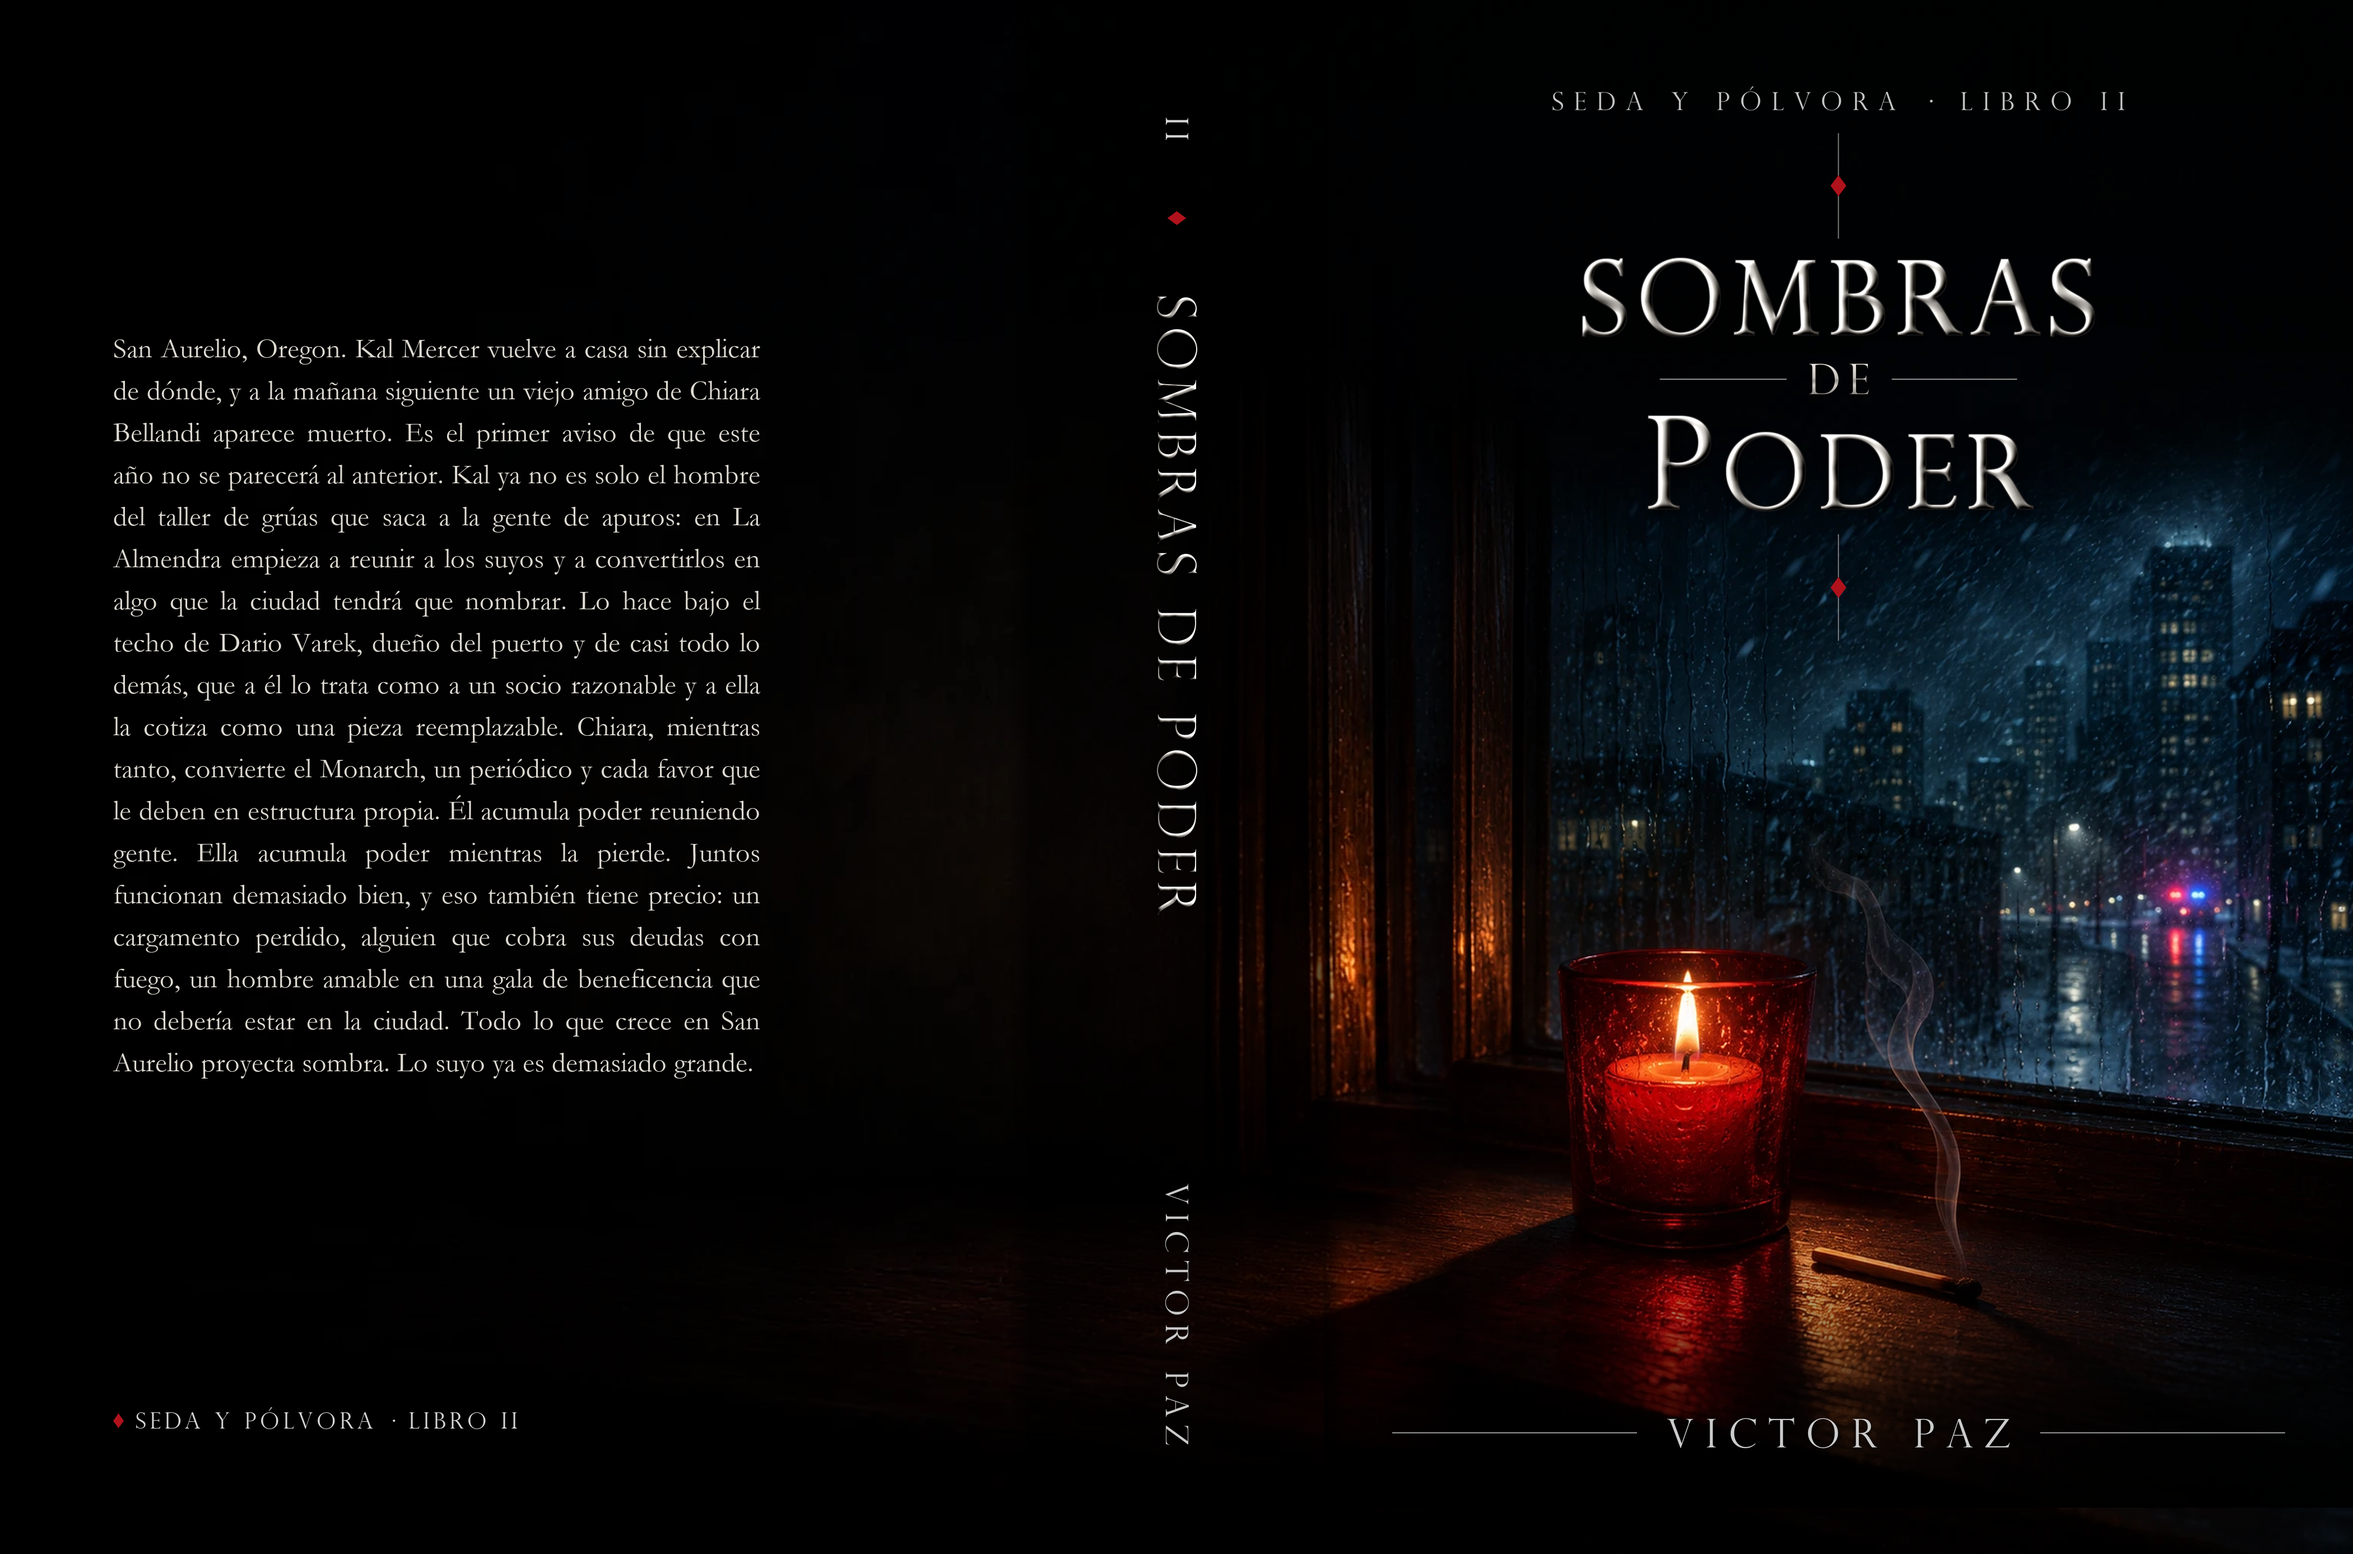
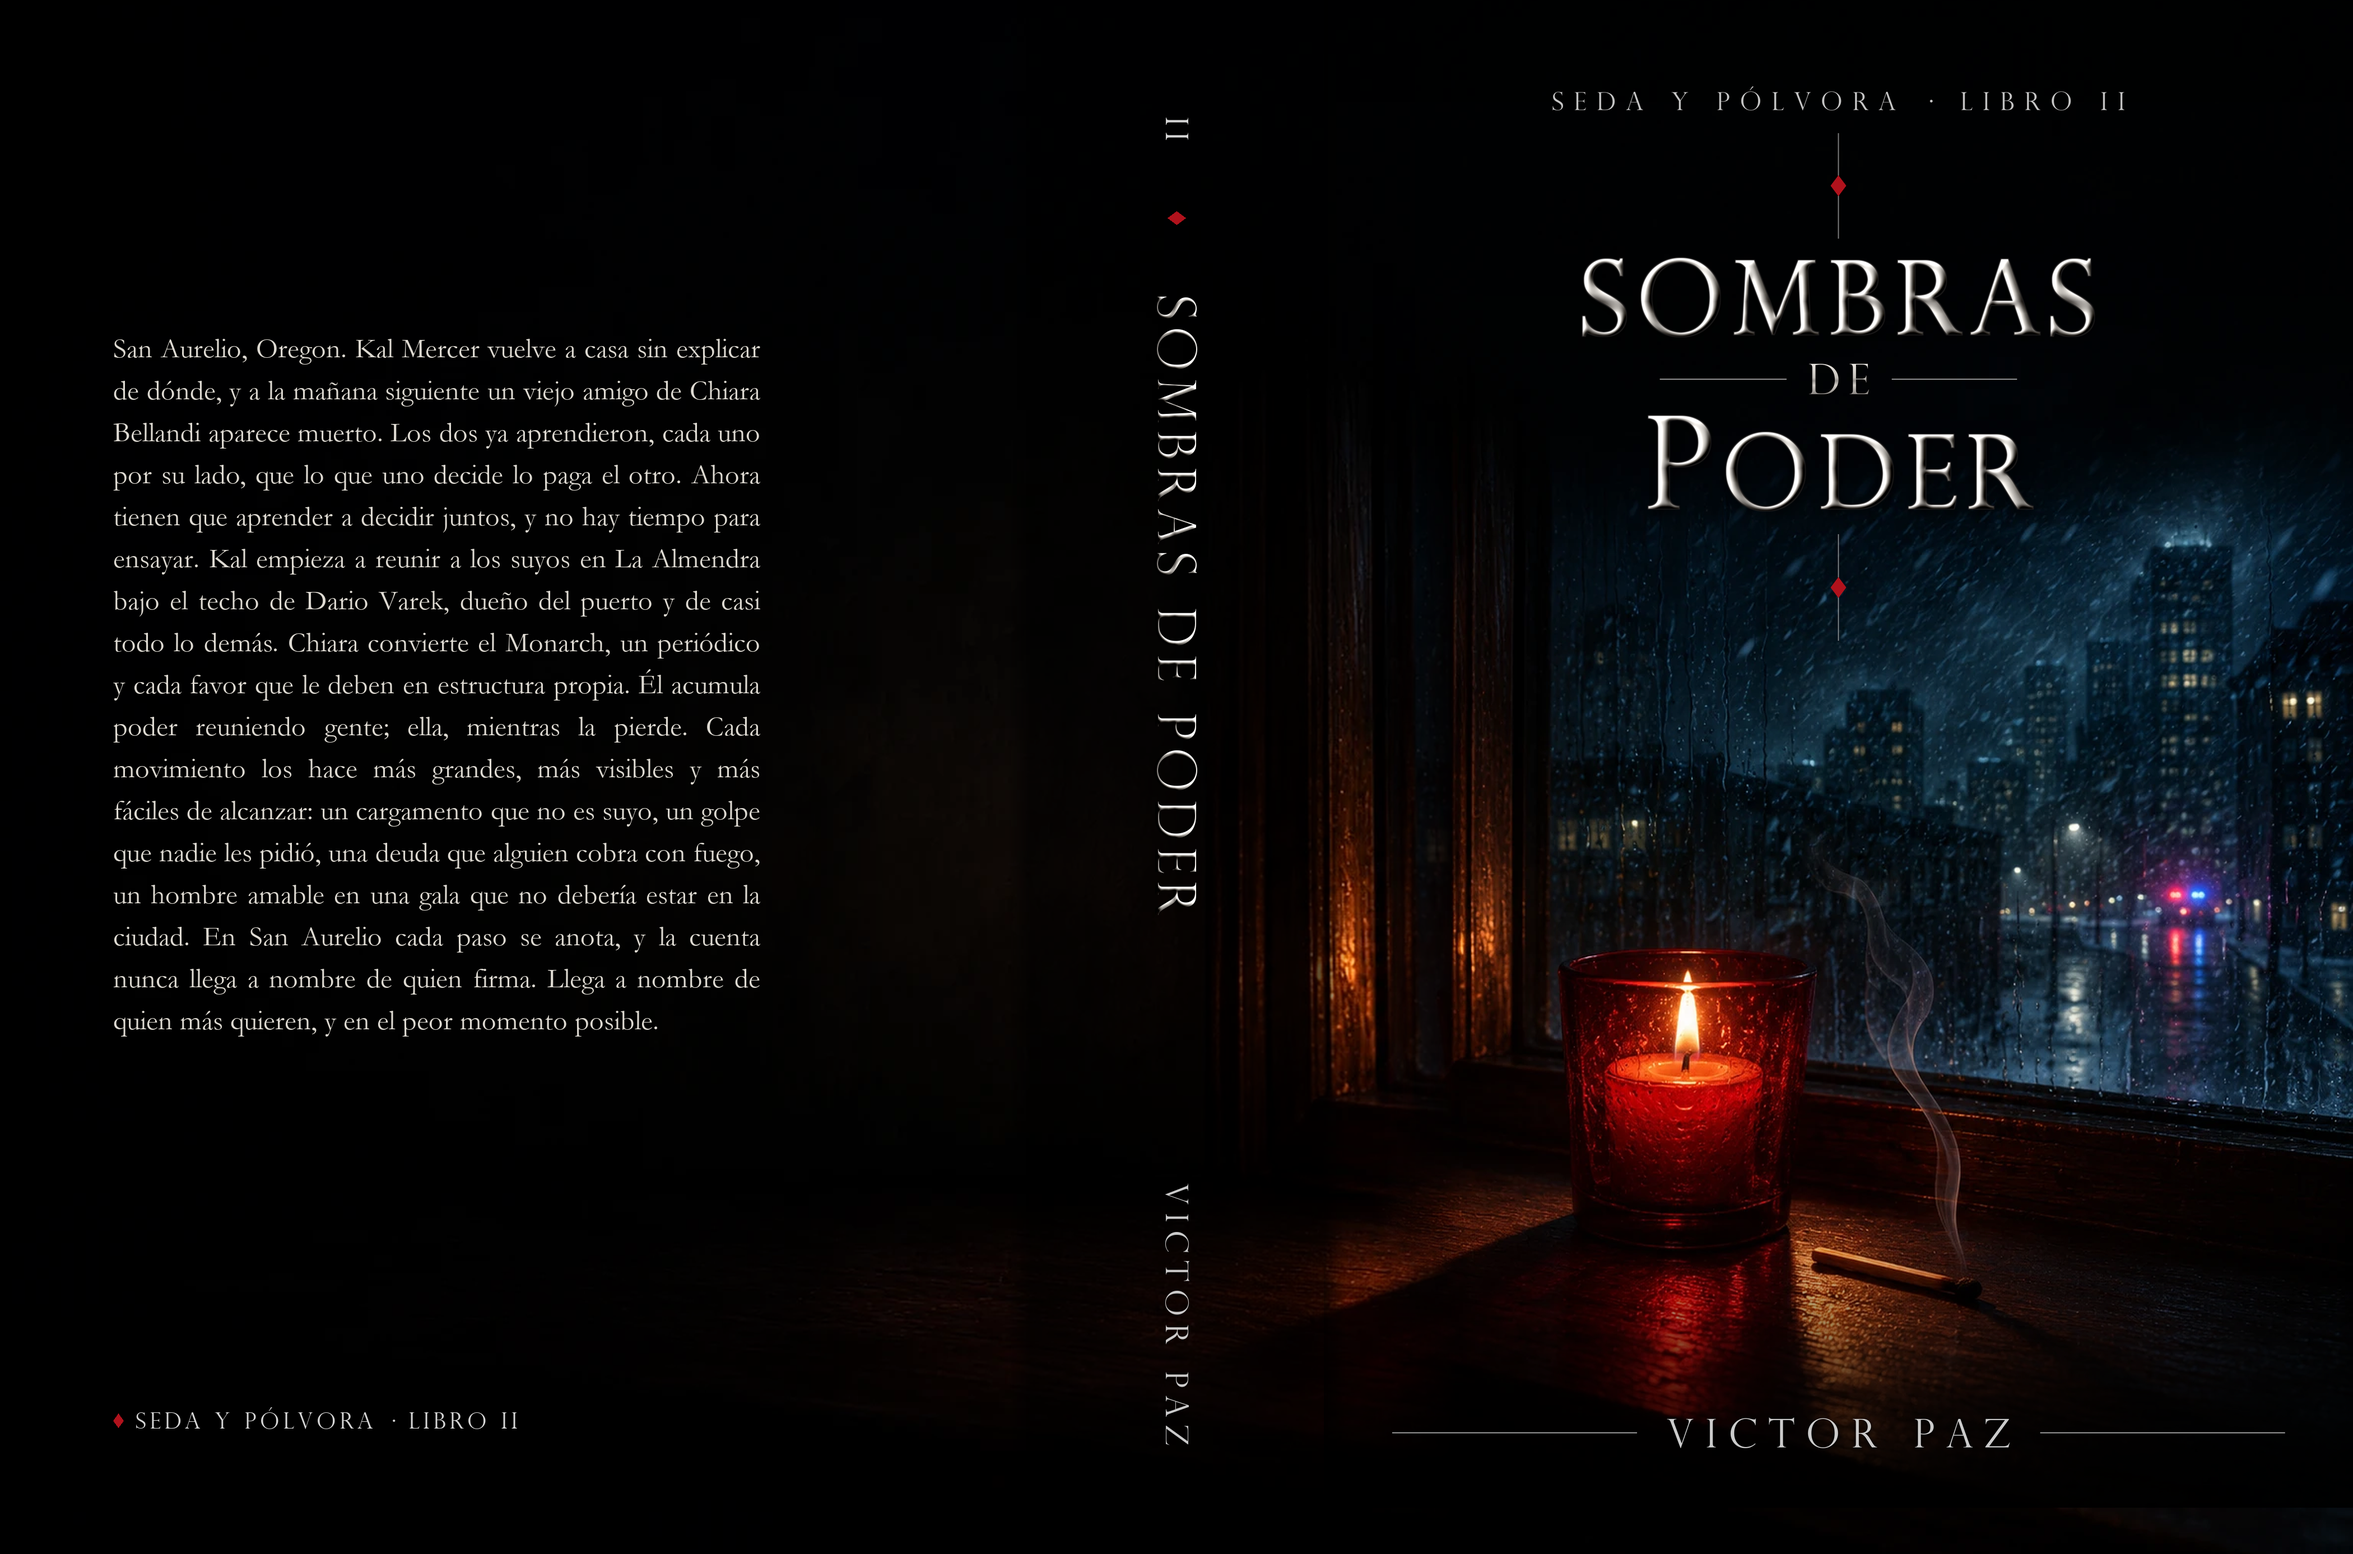
Libro II: sinopsis de contraportada v2 en clave de factura (decidir juntos; la cuenta llega a nombre de quien más quieren); tapa provisional recompuesta

Changed region(s): [[0.0624, 0.2789, 0.3119, 0.6818]]

diff --git a/11_Books/Book_02_Sombras_De_Poder/00_Sinopsis_Contraportada.md b/11_Books/Book_02_Sombras_De_Poder/00_Sinopsis_Contraportada.md
@@ -1,22 +1,21 @@
 # Sinopsis de contraportada — *Sombras de Poder*
 
-**Estado:** DISEÑO (borrador del 2026-11-22, pendiente de aprobación del autor). Provisional mientras el libro está en redacción: se revisa cuando la Parte II esté escrita. Hermana de [[11_Books/Book_01_Mascaras_De_Cristal/00_Sinopsis_Contraportada]].
+**Estado:** DISEÑO (borrador v2 del 2026-11-22, pendiente de aprobación del autor). Provisional mientras el libro está en redacción: se revisa cuando la Parte II esté escrita. Hermana de [[11_Books/Book_01_Mascaras_De_Cristal/00_Sinopsis_Contraportada]].
 
-**Reglas (las del Libro I):** 150–200 palabras, presente, registro neutro, un solo párrafo; no pasa de la mitad del libro (nada del choque, Meiko, Bonnie, el embarazo, Stavanger ni H1); sin nombres que el lector no necesita; no revela cómo termina el Libro I más allá de que Kal vuelve.
+**Reglas (las del Libro I):** 150–200 palabras, presente, registro neutro, un solo párrafo; no pasa de la mitad del libro (nada del choque, Bonnie, el embarazo ni Stavanger); sin nombres que el lector no necesita; no revela cómo termina el Libro I más allá de que Kal vuelve. **Encargo del autor (2026-11-22):** subir la expectativa de movimientos con costo y peligro; individualmente ya aprendieron que lo que hacen lo paga el otro, y aquí aprenden a decidir juntos. La sinopsis gira alrededor de la factura (Meiko, Elenna, H1) sin adelantar ninguno.
 
 ---
 
-San Aurelio, Oregon. Kal Mercer vuelve a casa sin explicar de dónde, y a la mañana siguiente un viejo amigo de Chiara Bellandi aparece muerto. Es el primer aviso de que este año no se parecerá al anterior. Kal ya no es solo el hombre del taller de grúas que saca a la gente de apuros: en La Almendra empieza a reunir a los suyos y a convertirlos en algo que la ciudad tendrá que nombrar. Lo hace bajo el techo de Dario Varek, dueño del puerto y de casi todo lo demás, que a él lo trata como a un socio razonable y a ella la cotiza como una pieza reemplazable. Chiara, mientras tanto, convierte el Monarch, un periódico y cada favor que le deben en estructura propia. Él acumula poder reuniendo gente. Ella acumula poder mientras la pierde. Juntos funcionan demasiado bien, y eso también tiene precio: un cargamento perdido, alguien que cobra sus deudas con fuego, un hombre amable en una gala de beneficencia que no debería estar en la ciudad. Todo lo que crece en San Aurelio proyecta sombra. Lo suyo ya es demasiado grande.
+San Aurelio, Oregon. Kal Mercer vuelve a casa sin explicar de dónde, y a la mañana siguiente un viejo amigo de Chiara Bellandi aparece muerto. Los dos ya aprendieron, cada uno por su lado, que lo que uno decide lo paga el otro. Ahora tienen que aprender a decidir juntos, y no hay tiempo para ensayar. Kal empieza a reunir a los suyos en La Almendra bajo el techo de Dario Varek, dueño del puerto y de casi todo lo demás. Chiara convierte el Monarch, un periódico y cada favor que le deben en estructura propia. Él acumula poder reuniendo gente; ella, mientras la pierde. Cada movimiento los hace más grandes, más visibles y más fáciles de alcanzar: un cargamento que no es suyo, un golpe que nadie les pidió, una deuda que alguien cobra con fuego, un hombre amable en una gala que no debería estar en la ciudad. En San Aurelio cada paso se anota, y la cuenta nunca llega a nombre de quien firma. Llega a nombre de quien más quieren, y en el peor momento posible.
 
 ---
 
 ## Notas del borrador
 
-- Remate: hace eco del título como el del Libro I hace eco de «tasar / pagar». Alternativa si se prefiere el eje del libro: «Construir un lugar donde otros pertenezcan es lo fácil. Lo difícil es no perder a nadie adentro.»
-- «Él acumula poder reuniendo gente. Ella acumula poder mientras la pierde.» viene de la brújula de [[11_Books/Book_02_Sombras_De_Poder/00_Plan_Cuatro_Partes]].
-- «Alguien que cobra sus deudas con fuego» es Crowe y el incendio del loft (Parte I), sin nombrarlo; el Libro I ya lo dejó como «alguien que pone precio».
-- «Un hombre amable en una gala» es Halbrook en la Galería Saints (cierre de la Parte I), sin nombrarlo.
-- «Un periódico» es *El Faro*; «el Monarch», el avance de Chiara hacia la mayoría.
-- «Vuelve sin explicar de dónde» toca el final del Libro I sin nombrar Camp Alder.
-- Lo que no entra a propósito: Fabrizio por su nombre, Lucía, Tommaso, Ren Wei, el Patio por su nombre, la joyería, la vela, la Navidad y todo lo de la Parte II en adelante.
-- Sin datos de lomo ni tapa: el libro aún no tiene páginas ni portada.
+- **La factura, sin adelantarla:** «a nombre de quien más quieren» apunta a Meiko (y al Patio que se mutila en la Parte III); «en el peor momento posible» recoge «Elenna llega en el peor momento posible» de la brújula del plan y la noche de H1, sin decir qué llega ni cuándo.
+- «Lo que uno decide lo paga el otro» resume lo aprendido en el Libro I (Kal y Camp Alder; Chiara y Matteo, la cuenta con Dario) sin nombrarlo; «aprender a decidir juntos» es el arco de pareja del Libro II.
+- Escalada de movimientos, en orden del libro: el cargamento de Crowe (§9b–10), el robo de Lunar Pearl (Parte II; «nadie les pidió» = primera operación autónoma, sin Dario), el incendio del loft (§11) y Halbrook en la gala (cierre de la Parte I). Ninguno se nombra.
+- «Él acumula poder reuniendo gente; ella, mientras la pierde.» viene de la brújula de [[11_Books/Book_02_Sombras_De_Poder/00_Plan_Cuatro_Partes]].
+- El remate hace eco del Libro I («todo se paga») y lo lleva un paso más allá: ahora la cuenta la paga otro.
+- **v1 (retirada):** cerraba con «Todo lo que crece en San Aurelio proyecta sombra. Lo suyo ya es demasiado grande.» Se cambió a pedido del autor por la clave de factura.
+- Lo que no entra a propósito: Fabrizio por su nombre, Lucía, Tommaso, Ren Wei, el Patio por su nombre, la vela, la Navidad, Meiko, Elenna, el embarazo y H1.

diff --git a/98_Agent_Handoff/PENDING.md b/98_Agent_Handoff/PENDING.md
@@ -41,6 +41,6 @@ Lista de fondo: [[98_Agent_Handoff/BACKLOG#Libros II y III]]. Prosa en espera ha
 - **Propagación de la Parte II (2026-11-09):** el autor decide las dudas listadas en [[98_Agent_Handoff/sessions/2026-11-09_claude_propagacion_parte_II_resto]] (seguro de Vento, H16, POV de 32 y 34, entre otras).
 
 - **Portada y Nota Editorial:** portada ≥1600×2560 para KDP (concepto y prompts: [[99_Reference/book_covers/00_Portada_Mascaras_De_Cristal_Colombina]]; falta generar y elegir); título de `00_Nota_Editorial.md`, del autor.
-- **Sinopsis de contraportada del Libro II:** borrador DISEÑO (2026-11-22) en [[11_Books/Book_02_Sombras_De_Poder/00_Sinopsis_Contraportada]]; falta aprobación del autor y elegir remate.
+- **Sinopsis de contraportada del Libro II:** borrador v2 DISEÑO (2026-11-22, en clave de factura) en [[11_Books/Book_02_Sombras_De_Poder/00_Sinopsis_Contraportada]], ya compuesto en la tapa provisional; falta aprobación del autor.
 - **Referencias de numeración (2026-11-10):** 23 dudas (ocho de contenido): [[98_Agent_Handoff/sessions/2026-11-10_claude_referencias_dudosas]]. Otras 2 dudas y afirmaciones que el nuevo cauce volvió falsas: [[98_Agent_Handoff/sessions/2026-11-10_claude_referencias_56_a_47]].
 - Diferidos en [[98_Agent_Handoff/BACKLOG]]: reseña de Partes I–II (ChatGPT), diálogo de terceros (Parte I), protolectura de los caps. 1–8, Q24, cobros del Libro I, aura, Halbrook, Corrado/Manfred, mesa tres, *El Faro*, Cap. 34, susurro a Varga y «Usted es alta».
